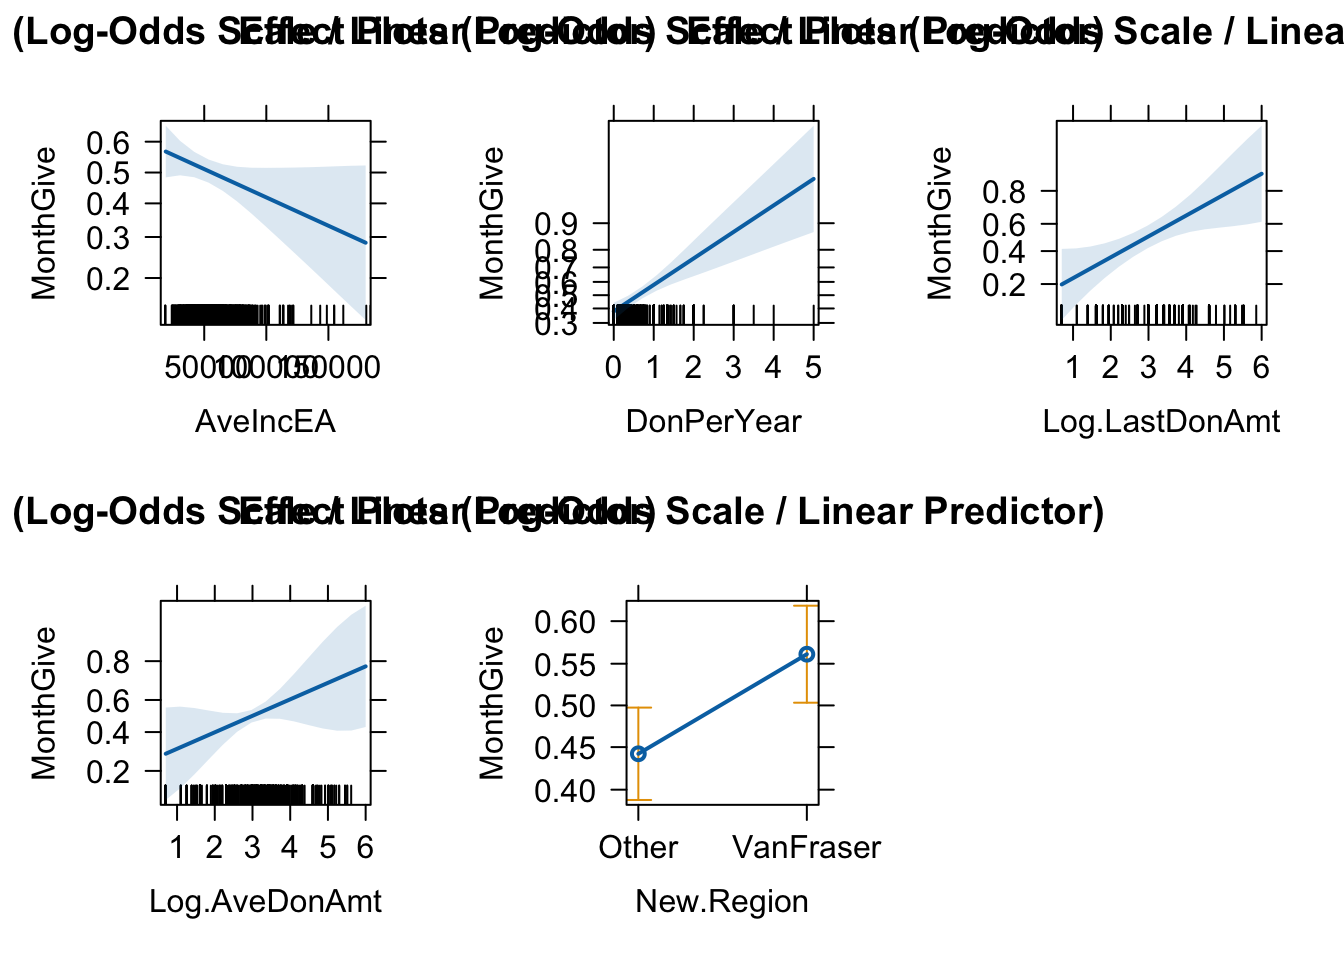
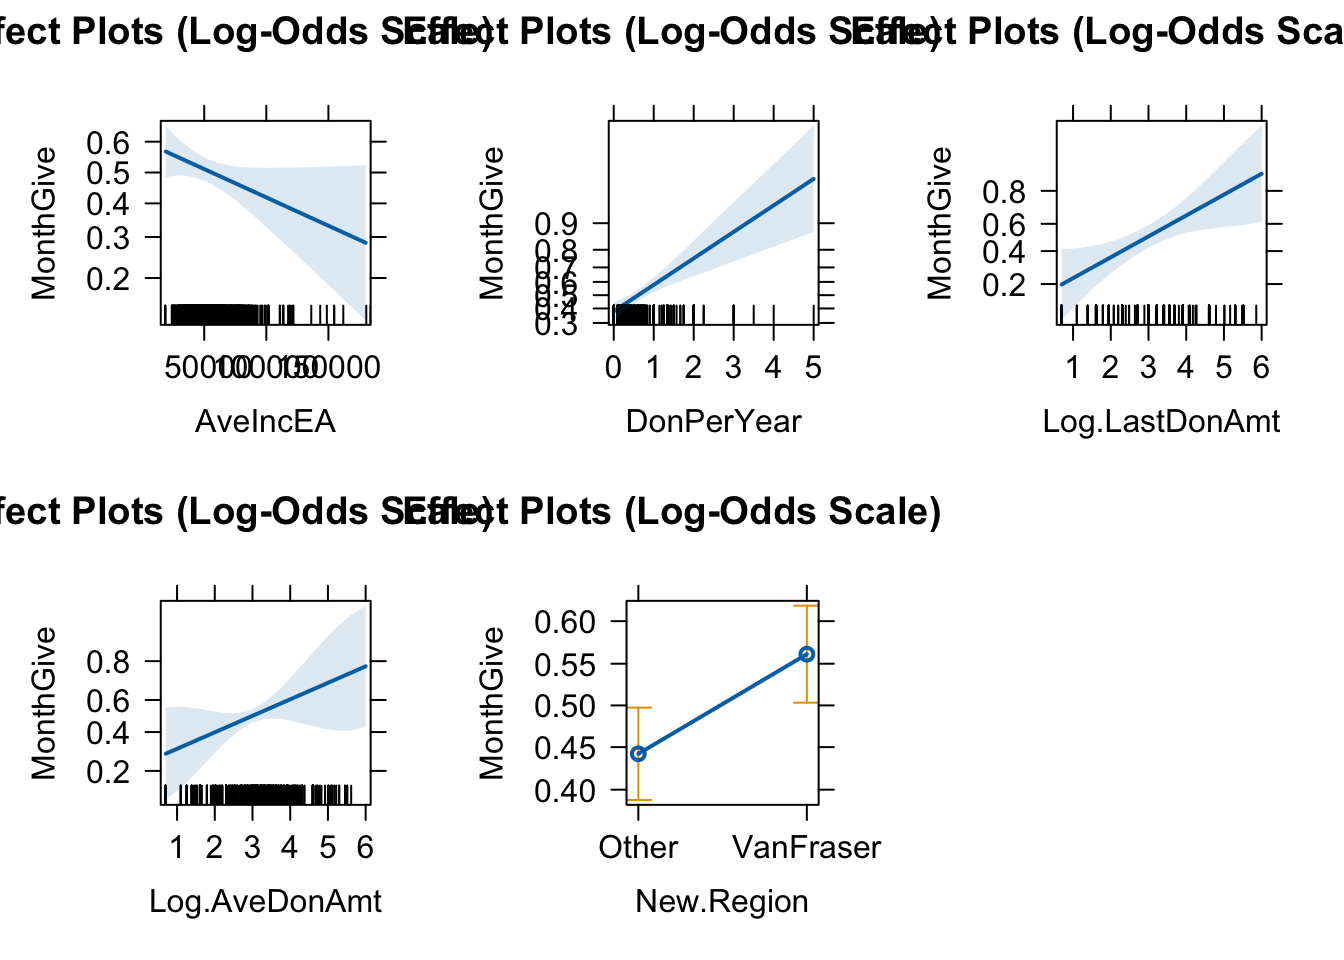
ud

Changed region(s): [[0.0, 0.0, 1.0, 0.0625], [0.0, 0.5, 0.8125, 0.5625]]

diff --git a/bus445-w4/exercises_answers.html b/bus445-w4/exercises_answers.html
@@ -118,19 +118,9 @@ window.Quarto = {
   <li><a href="#phase-2-logistic-modeling-effect-sizes" id="toc-phase-2-logistic-modeling-effect-sizes" class="nav-link" data-scroll-target="#phase-2-logistic-modeling-effect-sizes">📈 Phase 2: Logistic Modeling &amp; Effect Sizes</a>
   <ul class="collapse">
   <li><a href="#exercise-5.4.18-effect-size-plots" id="toc-exercise-5.4.18-effect-size-plots" class="nav-link" data-scroll-target="#exercise-5.4.18-effect-size-plots">Exercise 5.4.18: Effect Size Plots</a></li>
-  </ul></li>
-  <li><a href="#prepare-variables-for-model-mixedccs2" id="toc-prepare-variables-for-model-mixedccs2" class="nav-link" data-scroll-target="#prepare-variables-for-model-mixedccs2">1. Prepare Variables for Model MixedCCS2</a></li>
-  <li><a href="#log-transformations-adding-1-to-yearsgive-if-needed-though-not-used-in-mixedccs2." id="toc-log-transformations-adding-1-to-yearsgive-if-needed-though-not-used-in-mixedccs2." class="nav-link" data-scroll-target="#log-transformations-adding-1-to-yearsgive-if-needed-though-not-used-in-mixedccs2.">Log Transformations (Adding 1 to YearsGive if needed, though not used in MixedCCS2.</a></li>
-  <li><a href="#for-amounts-assumption-is-0-but-logx-is-standard-here." id="toc-for-amounts-assumption-is-0-but-logx-is-standard-here." class="nav-link" data-scroll-target="#for-amounts-assumption-is-0-but-logx-is-standard-here.">For amounts, assumption is &gt; 0, but log(x) is standard here.</a></li>
-  <li><a href="#tutorial-uses-log.lastdonamt-and-log.avedonamt." id="toc-tutorial-uses-log.lastdonamt-and-log.avedonamt." class="nav-link" data-scroll-target="#tutorial-uses-log.lastdonamt-and-log.avedonamt.">Tutorial uses Log.LastDonAmt and Log.AveDonAmt.</a></li>
-  <li><a href="#collapse-regions" id="toc-collapse-regions" class="nav-link" data-scroll-target="#collapse-regions">Collapse Regions</a></li>
-  <li><a href="#fit-model-mixedccs2-on-estimation-sample" id="toc-fit-model-mixedccs2-on-estimation-sample" class="nav-link" data-scroll-target="#fit-model-mixedccs2-on-estimation-sample">2. Fit Model MixedCCS2 on Estimation Sample</a></li>
-  <li><a href="#generate-effect-plots" id="toc-generate-effect-plots" class="nav-link" data-scroll-target="#generate-effect-plots">3. Generate Effect Plots</a></li>
-  <li><a href="#original-probability-scale-type-response" id="toc-original-probability-scale-type-response" class="nav-link" data-scroll-target="#original-probability-scale-type-response">(Original) Probability Scale (type = “response”)</a>
-  <ul class="collapse">
   <li><a href="#exercise-5.4.19-managerial-description" id="toc-exercise-5.4.19-managerial-description" class="nav-link" data-scroll-target="#exercise-5.4.19-managerial-description">Exercise 5.4.19: Managerial Description</a></li>
-  <li><a href="#additional-questions" id="toc-additional-questions" class="nav-link" data-scroll-target="#additional-questions">📝 Additional Questions</a></li>
   </ul></li>
+  <li><a href="#additional-questions" id="toc-additional-questions" class="nav-link" data-scroll-target="#additional-questions">📝 Additional Questions</a></li>
   </ul>
 </nav>
 </div>
@@ -444,57 +434,103 @@ zero-length arrow is of indeterminate angle and so skipped</code></pre>
 <h3 class="anchored" data-anchor-id="exercise-5.4.18-effect-size-plots">Exercise 5.4.18: Effect Size Plots</h3>
 <p><strong>Task:</strong> (a) Relate effect size plots to significance. (b) Rerun <code>plot(allEffects...)</code> without <code>type = "response"</code>.</p>
 <p>First, we need to recreate the <code>MixedCCS2</code> model as per the tutorial guide involving variable transformations and region collapsing.</p>
-</section>
-</section>
-<section id="prepare-variables-for-model-mixedccs2" class="level1">
-<h1>1. Prepare Variables for Model MixedCCS2</h1>
-</section>
-<section id="log-transformations-adding-1-to-yearsgive-if-needed-though-not-used-in-mixedccs2." class="level1">
-<h1>Log Transformations (Adding 1 to YearsGive if needed, though not used in MixedCCS2.</h1>
-</section>
-<section id="for-amounts-assumption-is-0-but-logx-is-standard-here." class="level1">
-<h1>For amounts, assumption is &gt; 0, but log(x) is standard here.</h1>
-</section>
-<section id="tutorial-uses-log.lastdonamt-and-log.avedonamt." class="level1">
-<h1>Tutorial uses Log.LastDonAmt and Log.AveDonAmt.</h1>
-<p>CCS<span class="math inline">\(Log.LastDonAmt &lt;- log(CCS\)</span>LastDonAmt) CCS<span class="math inline">\(Log.AveDonAmt  &lt;- log(CCS\)</span>AveDonAmt)</p>
-</section>
-<section id="collapse-regions" class="level1">
-<h1>Collapse Regions</h1>
-<p>CCS<span class="math inline">\(New.Region &lt;- fct_collapse(CCS\)</span>Region, VanFraser = c(“R2”, “R3”), Other = c(“R1”, “R4”, “R5”, “R6”))</p>
-</section>
-<section id="fit-model-mixedccs2-on-estimation-sample" class="level1">
-<h1>2. Fit Model MixedCCS2 on Estimation Sample</h1>
-<p>MixedCCS2 &lt;- glm(formula = MonthGive ~ AveIncEA + DonPerYear + Log.LastDonAmt + Log.AveDonAmt + New.Region, family = binomial(logit), data = filter(CCS, Sample == “Estimation”))</p>
-<p>summary(MixedCCS2)</p>
-</section>
-<section id="generate-effect-plots" class="level1">
-<h1>3. Generate Effect Plots</h1>
-</section>
-<section id="original-probability-scale-type-response" class="level1">
-<h1>(Original) Probability Scale (type = “response”)</h1>
-<p>plot(allEffects(MixedCCS2), type = “response”, main = “Effect Plots (Probability Scale)”)</p>
+<div class="cell">
+<div class="sourceCode cell-code" id="cb15"><pre class="sourceCode r code-with-copy"><code class="sourceCode r"><span id="cb15-1"><a href="#cb15-1" aria-hidden="true" tabindex="-1"></a><span class="co"># 1. Prepare Variables for Model MixedCCS2</span></span>
+<span id="cb15-2"><a href="#cb15-2" aria-hidden="true" tabindex="-1"></a></span>
+<span id="cb15-3"><a href="#cb15-3" aria-hidden="true" tabindex="-1"></a><span class="co"># Log Transformations (Adding 1 to YearsGive if needed, though not used in MixedCCS2. </span></span>
+<span id="cb15-4"><a href="#cb15-4" aria-hidden="true" tabindex="-1"></a><span class="co"># For amounts, assumption is &gt; 0, but log(x) is standard here.</span></span>
+<span id="cb15-5"><a href="#cb15-5" aria-hidden="true" tabindex="-1"></a><span class="co"># Tutorial uses Log.LastDonAmt and Log.AveDonAmt.</span></span>
+<span id="cb15-6"><a href="#cb15-6" aria-hidden="true" tabindex="-1"></a>CCS<span class="sc">$</span>Log.LastDonAmt <span class="ot">&lt;-</span> <span class="fu">log</span>(CCS<span class="sc">$</span>LastDonAmt)</span>
+<span id="cb15-7"><a href="#cb15-7" aria-hidden="true" tabindex="-1"></a>CCS<span class="sc">$</span>Log.AveDonAmt  <span class="ot">&lt;-</span> <span class="fu">log</span>(CCS<span class="sc">$</span>AveDonAmt)</span>
+<span id="cb15-8"><a href="#cb15-8" aria-hidden="true" tabindex="-1"></a></span>
+<span id="cb15-9"><a href="#cb15-9" aria-hidden="true" tabindex="-1"></a><span class="co"># Collapse Regions</span></span>
+<span id="cb15-10"><a href="#cb15-10" aria-hidden="true" tabindex="-1"></a>CCS<span class="sc">$</span>New.Region <span class="ot">&lt;-</span> <span class="fu">fct_collapse</span>(CCS<span class="sc">$</span>Region, </span>
+<span id="cb15-11"><a href="#cb15-11" aria-hidden="true" tabindex="-1"></a>                               <span class="at">VanFraser =</span> <span class="fu">c</span>(<span class="st">"R2"</span>, <span class="st">"R3"</span>), </span>
+<span id="cb15-12"><a href="#cb15-12" aria-hidden="true" tabindex="-1"></a>                               <span class="at">Other =</span> <span class="fu">c</span>(<span class="st">"R1"</span>, <span class="st">"R4"</span>, <span class="st">"R5"</span>, <span class="st">"R6"</span>))</span>
+<span id="cb15-13"><a href="#cb15-13" aria-hidden="true" tabindex="-1"></a></span>
+<span id="cb15-14"><a href="#cb15-14" aria-hidden="true" tabindex="-1"></a><span class="co"># 2. Fit Model MixedCCS2 on Estimation Sample</span></span>
+<span id="cb15-15"><a href="#cb15-15" aria-hidden="true" tabindex="-1"></a>MixedCCS2 <span class="ot">&lt;-</span> <span class="fu">glm</span>(<span class="at">formula =</span> MonthGive <span class="sc">~</span> AveIncEA <span class="sc">+</span> DonPerYear <span class="sc">+</span> Log.LastDonAmt <span class="sc">+</span> </span>
+<span id="cb15-16"><a href="#cb15-16" aria-hidden="true" tabindex="-1"></a>                 Log.AveDonAmt <span class="sc">+</span> New.Region, </span>
+<span id="cb15-17"><a href="#cb15-17" aria-hidden="true" tabindex="-1"></a>                 <span class="at">family =</span> <span class="fu">binomial</span>(logit), </span>
+<span id="cb15-18"><a href="#cb15-18" aria-hidden="true" tabindex="-1"></a>                 <span class="at">data =</span> <span class="fu">filter</span>(CCS, Sample <span class="sc">==</span> <span class="st">"Estimation"</span>))</span>
+<span id="cb15-19"><a href="#cb15-19" aria-hidden="true" tabindex="-1"></a></span>
+<span id="cb15-20"><a href="#cb15-20" aria-hidden="true" tabindex="-1"></a><span class="fu">summary</span>(MixedCCS2)</span></code><button title="Copy to Clipboard" class="code-copy-button"><i class="bi"></i></button></pre></div>
+<div class="cell-output cell-output-stdout">
+<pre><code>
+Call:
+glm(formula = MonthGive ~ AveIncEA + DonPerYear + Log.LastDonAmt + 
+    Log.AveDonAmt + New.Region, family = binomial(logit), data = filter(CCS, 
+    Sample == "Estimation"))
+
+Coefficients:
+                      Estimate Std. Error z value Pr(&gt;|z|)    
+(Intercept)         -3.384e+00  4.024e-01  -8.408  &lt; 2e-16 ***
+AveIncEA            -7.442e-06  4.132e-06  -1.801  0.07169 .  
+DonPerYear           8.089e-01  1.864e-01   4.340 1.43e-05 ***
+Log.LastDonAmt       6.214e-01  2.375e-01   2.617  0.00887 ** 
+Log.AveDonAmt        4.166e-01  2.581e-01   1.614  0.10653    
+New.RegionVanFraser  4.792e-01  1.676e-01   2.859  0.00426 ** 
+---
+Signif. codes:  0 '***' 0.001 '**' 0.01 '*' 0.05 '.' 0.1 ' ' 1
+
+(Dispersion parameter for binomial family taken to be 1)
+
+    Null deviance: 1108.99  on 799  degrees of freedom
+Residual deviance:  911.96  on 794  degrees of freedom
+AIC: 923.96
+
+Number of Fisher Scoring iterations: 4</code></pre>
+</div>
+<div class="sourceCode cell-code" id="cb17"><pre class="sourceCode r code-with-copy"><code class="sourceCode r"><span id="cb17-1"><a href="#cb17-1" aria-hidden="true" tabindex="-1"></a><span class="co"># 3. Generate Effect Plots</span></span>
+<span id="cb17-2"><a href="#cb17-2" aria-hidden="true" tabindex="-1"></a></span>
+<span id="cb17-3"><a href="#cb17-3" aria-hidden="true" tabindex="-1"></a><span class="co"># (Original) Probability Scale (type = "response")</span></span>
+<span id="cb17-4"><a href="#cb17-4" aria-hidden="true" tabindex="-1"></a><span class="fu">plot</span>(<span class="fu">allEffects</span>(MixedCCS2), <span class="at">type =</span> <span class="st">"response"</span>, <span class="at">main =</span> <span class="st">"Effect Plots (Probability Scale)"</span>)</span></code><button title="Copy to Clipboard" class="code-copy-button"><i class="bi"></i></button></pre></div>
+<div class="cell-output-display">
+<div>
+<figure class="figure">
+<p><img src="exercises_answers_files/figure-html/unnamed-chunk-3-1.png" class="img-fluid figure-img" width="672"></p>
+</figure>
+</div>
+</div>
+<div class="sourceCode cell-code" id="cb18"><pre class="sourceCode r code-with-copy"><code class="sourceCode r"><span id="cb18-1"><a href="#cb18-1" aria-hidden="true" tabindex="-1"></a><span class="co"># (b) Log-Odds Scale (default)</span></span>
+<span id="cb18-2"><a href="#cb18-2" aria-hidden="true" tabindex="-1"></a><span class="fu">plot</span>(<span class="fu">allEffects</span>(MixedCCS2), <span class="at">main =</span> <span class="st">"Effect Plots (Log-Odds Scale)"</span>)</span></code><button title="Copy to Clipboard" class="code-copy-button"><i class="bi"></i></button></pre></div>
+<div class="cell-output-display">
+<div>
+<figure class="figure">
+<p><img src="exercises_answers_files/figure-html/unnamed-chunk-3-2.png" class="img-fluid figure-img" width="672"></p>
+</figure>
+</div>
+</div>
+</div>
 <p><strong>Answer:</strong></p>
-<p><strong>(a) Effect Size vs.&nbsp;Significance:</strong> Even though <code>AveIncEA</code> has a large effect size (doubling the probability of joining from the lowest to highest income levels), its effect is only marginally statistically significant (high p-value). This discrepancy occurs because statistical significance depends on both the <strong>magnitude of the effect</strong> and the <strong>precision of the estimate</strong> (standard error). A*Answer:**</p>
-<p>Members of the monthly giving program can be distinguished from non-members by their giving history and location. Specifically: 1. <strong>Giving History:</strong> Members tend to be more committed donors. They have higher <strong>average donation amounts</strong> in the past and donate <strong>more frequently</strong> (higher donations per year) compared to non-members. 2. <strong>Recent Engagement:</strong> The size of their <strong>last donation</strong> is also a strong indicator; those who gave larger amounts recently are more likely to join. 3. <strong>Demographics/Location:</strong> There are geographic differences, with donors in the <strong>Vancouver/Fraser</strong> regions (R2, R3) showing different adoption rates compared to other regions. (Note: Depending on the coefficient sign, one group is more likely). 4. <strong>Income:</strong> There is a tendency for donors from areas with higher <strong>average household income</strong> to be more likely to join, though this factor is less certain than their direct giving behavior.</p>
-<p>In summary, the best prospects for the monthly program are your <strong>active, high-value donors</strong> located in key regions.n result from: 1. <strong>High variability</strong> in the data regarding the relationship. 2. <strong>Multicollinearity:</strong> <code>AveIncEA</code> might be correlated with other predictors (e.g., <code>AveDonAmt</code> or <code>Region</code>), which inflates the standard error, making it hard for the model to isolate its specific contribution with certainty. M <strong>Variables that cannot be log-transformed:</strong> Variables with <strong>zero or negative values</strong> cannot be log-transformed directly (since <span class="math inline">\(log(0)\)</span> is undefined). For example, <code>YearsGive</code> might be 0 for a brand new donor. A common workaround is to add a small constant (e.g., <span class="math inline">\(log(x + 1)\)</span>). * <strong>Appropriateness:</strong> Log-transformations are appropriate when the relationship is <strong>non-linear</strong>, specifically <strong>concave</strong> (diminishing returns) or when the variable spans several orders of magnitude (highly skewed). It helps to linearize the relationship between the predictor and the log-odds of the target.</p>
-<p><strong>b) Why would you wish to reduce the number of levels of a categorical predictor?</strong> * <strong>Parsimony:</strong> Reducing complexity makes the model easier to interpret. * <strong>Statistical Power:</strong> Some levels might have very few observations (rare categories), leading to unstable estimates (large standard errors). Combining small, similar groups increases the sample size for that category. * <strong>Overfitting:</strong> Too many levels can lead to the model fitting noise rather than the signal.</p>
-<p><strong>c) How do you decide which levels to combine?</strong> * <strong>Similar Coefficients:</strong> Combine levels that have similar estimated coefficients (effects) on the target variable. * <strong>Logical Grouping:</strong> Combine levels that make conceptual sense to group together (e.g., grouping “January”, “February”, “March” into “Winter”). * <strong>Sample Size:</strong> Merge “rare” levels into a larger “Other” category if they are too small to be statistically significant on their own.</p>
-<p><strong>d) What problems do correlated predictors cause?</strong> * <strong>Multicollinearity:</strong> When predictors are highly correlated (e.g., <code>AveDonAmt</code> and <code>LastDonAmt</code>), it becomes difficult for the model to determine the unique effect of each variable. * <strong>Inflated Standard Errors:</strong> This leads to large standard errors and wide confidence intervals. * <strong>Instability:</strong> Small changes in the data can lead to large swings in the coefficient estimates. * <strong>Misleading Significance:</strong> A variable might appear statistically insignificant (high p-value) not because it doesn’t matter, but because its effect is masked by the other correlated variable.</p>
-<p><strong>e) Management presentation strategy with correlated predictors:</strong> * <strong>Model vs.&nbsp;Insight:</strong> Use the model with both predictors for <em>prediction</em> if it performs better (higher <span class="math inline">\(R^2\)</span> or accuracy). * <strong>Presentation:</strong> When presenting to management, be careful not to imply that <em>both</em> variables are independently driving the result in an additive way if they are measuring the same underlying trait (e.g., “Generosity”). * <strong>Simplify:</strong> You might present the “stronger” or more intuitive variable as the key driver (e.g., “Past Giving Behavior”) and mention that this captures both the average and recent donation size. Or, verify if removing one drastically changes the model performance; if not, present the simpler model to management to avoid confusion. Explicitly state that these two factors move together. <em>Write your comparison and explanation here.</em></p>
+<p><strong>(a) Effect Size vs.&nbsp;Significance:</strong> Even though <code>AveIncEA</code> has a large effect size (doubling the probability of joining from the lowest to highest income levels), its effect is only marginally statistically significant (high p-value). This discrepancy occurs because statistical significance depends on both the <strong>magnitude of the effect</strong> and the <strong>precision of the estimate</strong> (standard error). This discrepancy can result from:</p>
+<ol type="1">
+<li><strong>High variability</strong> in the data regarding the relationship.</li>
+<li><strong>Multicollinearity:</strong> <code>AveIncEA</code> might be correlated with other predictors (e.g., <code>AveDonAmt</code> or <code>Region</code>), which inflates the standard error, making it hard for the model to isolate its specific contribution with certainty.</li>
+</ol>
+<p><strong>(b) Comparison:</strong> <em>Write your comparison and explanation here.</em></p>
+</section>
 <section id="exercise-5.4.19-managerial-description" class="level3">
 <h3 class="anchored" data-anchor-id="exercise-5.4.19-managerial-description">Exercise 5.4.19: Managerial Description</h3>
 <p><strong>Task:</strong> Describe in plain managerial English how the members of the monthly giving program differ from nonmembers.</p>
-<p><em>Write your answer here.</em></p>
+<p><strong>Answer:</strong></p>
+<p>Members of the monthly giving program can be distinguished from non-members by their giving history and location. Specifically:</p>
+<ol type="1">
+<li><strong>Giving History:</strong> Members tend to be more committed donors. They have higher <strong>average donation amounts</strong> in the past and donate <strong>more frequently</strong> (higher donations per year) compared to non-members.</li>
+<li><strong>Recent Engagement:</strong> The size of their <strong>last donation</strong> is also a strong indicator; those who gave larger amounts recently are more likely to join.</li>
+<li><strong>Demographics/Location:</strong> There are geographic differences, with donors in the <strong>Vancouver/Fraser</strong> regions (R2, R3) showing different adoption rates compared to other regions. (Note: Depending on the coefficient sign, one group is more likely).</li>
+<li><strong>Income:</strong> There is a tendency for donors from areas with higher <strong>average household income</strong> to be more likely to join, though this factor is less certain than their direct giving behavior.</li>
+</ol>
+<p>In summary, the best prospects for the monthly program are your <strong>active, high-value donors</strong> located in key regions.</p>
+</section>
 </section>
 <section id="additional-questions" class="level2">
 <h2 class="anchored" data-anchor-id="additional-questions">📝 Additional Questions</h2>
-<p><strong>a) Log transformations:</strong> <em>Answer here regarding variable types and appropriateness.</em></p>
-<p><strong>b) Reducing levels of categorical predictor:</strong> <em>Answer here.</em></p>
-<p><strong>c) Deciding which levels to combine:</strong> <em>Answer here.</em></p>
-<p><strong>d) Problems caused by correlated predictors:</strong> <em>Answer here.</em></p>
-<p><strong>e) Management presentation strategy with correlated predictors:</strong> <em>Answer here.</em></p>
-</section>
+<p><strong>a) Log transformations:</strong> * <strong>Variables that cannot be log-transformed:</strong> Variables with <strong>zero or negative values</strong> cannot be log-transformed directly (since <span class="math inline">\(log(0)\)</span> is undefined). For example, <code>YearsGive</code> might be 0 for a brand new donor. A common workaround is to add a small constant (e.g., <span class="math inline">\(log(x + 1)\)</span>). * <strong>Appropriateness:</strong> Log-transformations are appropriate when the relationship is <strong>non-linear</strong>, specifically <strong>concave</strong> (diminishing returns) or when the variable spans several orders of magnitude (highly skewed). It helps to linearize the relationship between the predictor and the log-odds of the target.</p>
+<p><strong>b) Why would you wish to reduce the number of levels of a categorical predictor?</strong> * <strong>Parsimony:</strong> Reducing complexity makes the model easier to interpret. * <strong>Statistical Power:</strong> Some levels might have very few observations (rare categories), leading to unstable estimates (large standard errors). Combining small, similar groups increases the sample size for that category. * <strong>Overfitting:</strong> Too many levels can lead to the model fitting noise rather than the signal.</p>
+<p><strong>c) How do you decide which levels to combine?</strong> * <strong>Similar Coefficients:</strong> Combine levels that have similar estimated coefficients (effects) on the target variable. * <strong>Logical Grouping:</strong> Combine levels that make conceptual sense to group together (e.g., grouping “January”, “February”, “March” into “Winter”). * <strong>Sample Size:</strong> Merge “rare” levels into a larger “Other” category if they are too small to be statistically significant on their own.</p>
+<p><strong>d) What problems do correlated predictors cause?</strong> * <strong>Multicollinearity:</strong> When predictors are highly correlated (e.g., <code>AveDonAmt</code> and <code>LastDonAmt</code>), it becomes difficult for the model to determine the unique effect of each variable. * <strong>Inflated Standard Errors:</strong> This leads to large standard errors and wide confidence intervals. * <strong>Instability:</strong> Small changes in the data can lead to large swings in the coefficient estimates. * <strong>Misleading Significance:</strong> A variable might appear statistically insignificant (high p-value) not because it doesn’t matter, but because its effect is masked by the other correlated variable.</p>
+<p><strong>e) Management presentation strategy with correlated predictors:</strong> * <strong>Model vs.&nbsp;Insight:</strong> Use the model with both predictors for <em>prediction</em> if it performs better (higher <span class="math inline">\(R^2\)</span> or accuracy). * <strong>Presentation:</strong> When presenting to management, be careful not to imply that <em>both</em> variables are independently driving the result in an additive way if they are measuring the same underlying trait (e.g., “Generosity”). * <strong>Simplify:</strong> You might present the “stronger” or more intuitive variable as the key driver (e.g., “Past Giving Behavior”) and mention that this captures both the average and recent donation size. Or, verify if removing one drastically changes the model performance; if not, present the simpler model to management to avoid confusion. Explicitly state that these two factors move together.</p>
 </section>
 
 </main>
